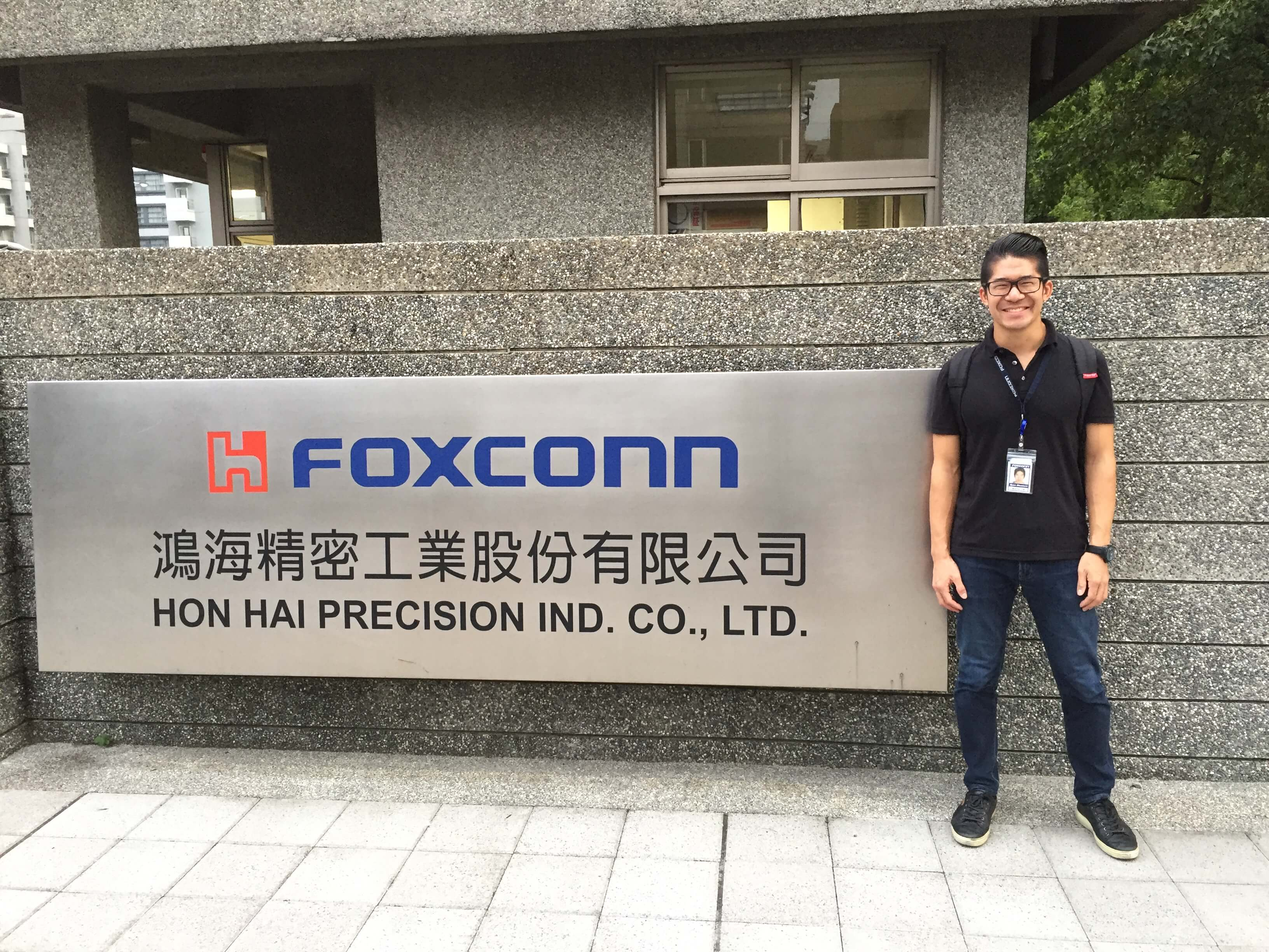
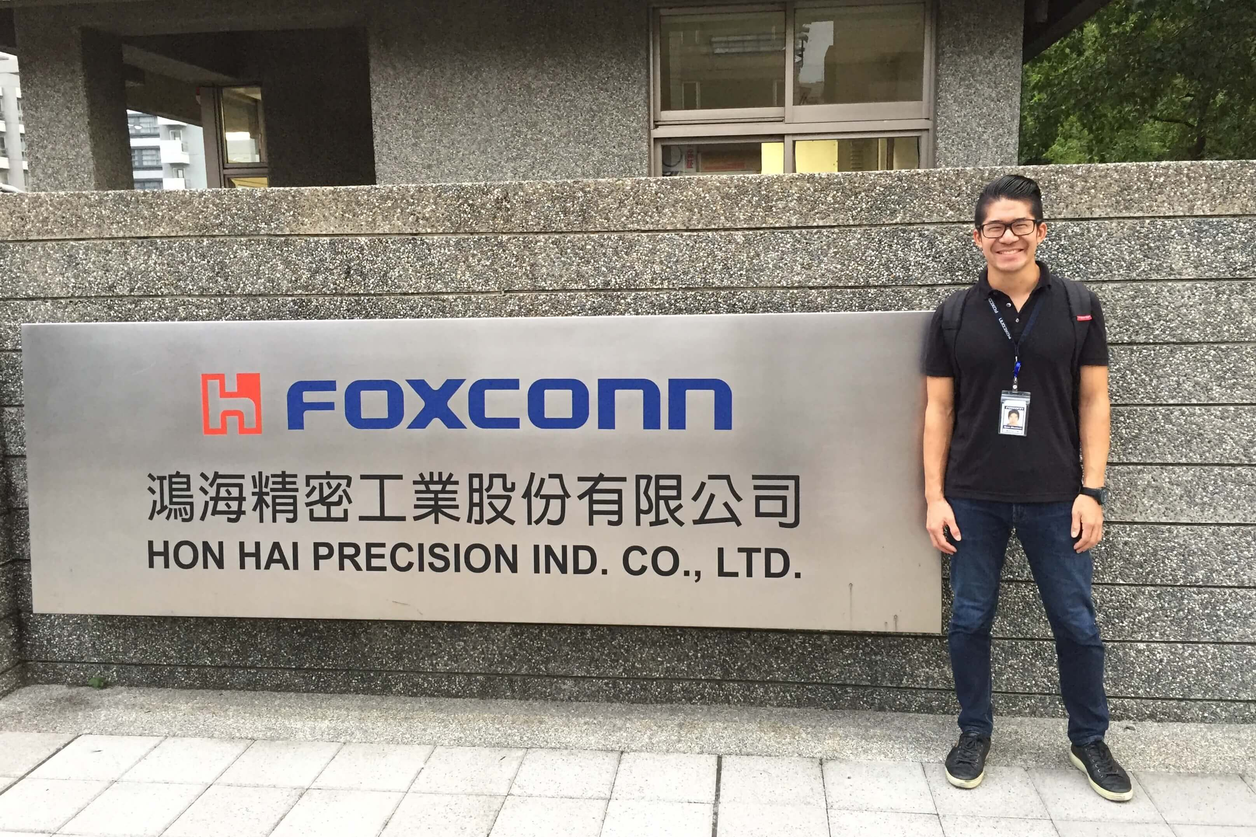
Fix responsive landing page and FXN photo size

diff --git a/src/components/landing/Home.css b/src/components/landing/Home.css
@@ -34,8 +34,22 @@
 .landing-featured-articles {
     display: flex;
     margin: 50px 80px;
+    overflow: auto;
 }
 
 .blog-entry {
-    flex: 3;
+    flex: 1;
+    max-width: 100%;
+    height: auto;
 }
+
+/* .landing-featured-posts {
+    flex: 1;
+}
+*/
+
+.landing-featured-images {
+    flex: 1;
+    max-width: 100%;
+    height: auto;
+} 
